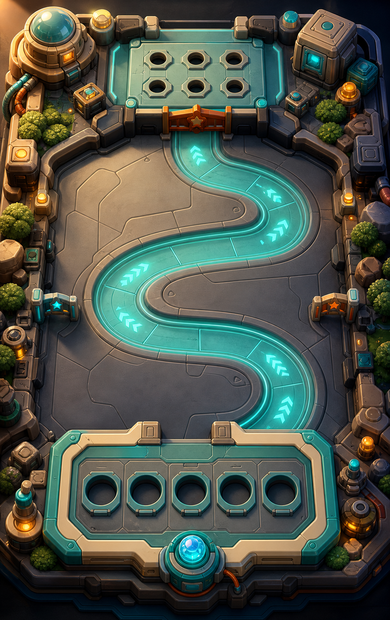
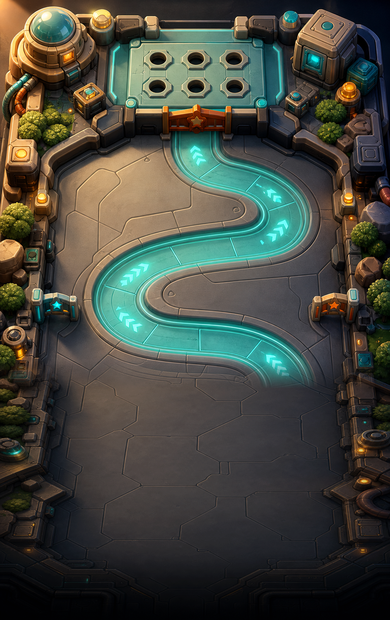
polish reboot battle footer visuals

Changed region(s): [[0.0, 0.5823, 1.0, 1.0], [0.4923, 0.6435, 0.5231, 0.6742], [0.1846, 0.95, 0.2154, 0.9806]]

diff --git a/test/presentation.test.js b/test/presentation.test.js
@@ -23,7 +23,7 @@ test('client app is split into reboot modules and keeps app.js as bootstrap', as
   assert.equal(lines <= 900, true, `app.js line budget exceeded: ${lines}`);
   for (const marker of [
     "from './reboot_actions.js'",
-    "from './reboot_render.js'",
+    "from './reboot_render.js?v=reboot-battle-footer-polish6'",
     "from './reboot_screens.js'",
     "from './reboot_online.js'"
   ]) {
@@ -149,10 +149,32 @@ test('portrait CSS keeps the app shell fixed and thumb-first', async () => {
   }
 });
 
+test('combat canvas preserves the full imagegen map instead of cropping short phones', async () => {
+  const css = await readFile('src/client/styles.css', 'utf8');
+  const canvasBlock = css.slice(css.indexOf('#gameCanvas {'), css.indexOf('.toast {'));
+
+  for (const marker of [
+    'aspect-ratio: 390 / 620;',
+    'object-fit: contain;',
+    'object-position: center center;'
+  ]) {
+    assert.equal(canvasBlock.includes(marker), true, marker);
+  }
+
+  assert.equal(canvasBlock.includes('object-fit: cover;'), false, 'cover can crop the lower player board on short screens');
+});
+
 test('app shell cache-busts the game stylesheet for visual asset updates', async () => {
   const html = await readFile('index.html', 'utf8');
+  const app = await readFile('src/client/app.js', 'utf8');
+  const render = await readFile('src/client/reboot_render.js', 'utf8');
+  const css = await readFile('src/client/styles.css', 'utf8');
 
-  assert.equal(html.includes('<link rel="stylesheet" href="/src/client/styles.css?v=reboot-meta-footer-shroud1">'), true);
+  assert.equal(html.includes('<link rel="stylesheet" href="/src/client/styles.css?v=reboot-battle-footer-polish6">'), true);
+  assert.equal(html.includes('<script type="module" src="/src/client/app.js?v=reboot-battle-footer-polish6"></script>'), true);
+  assert.equal(app.includes("from './reboot_render.js?v=reboot-battle-footer-polish6'"), true);
+  assert.equal(render.includes("src: '/src/client/assets/generated/reboot-battle-backdrop.png?v=reboot-battle-footer-polish6'"), true);
+  assert.equal(css.includes('--combat-action-dock: url("/src/client/assets/generated/reboot-combat-action-dock.png?v=reboot-battle-footer-polish6")'), true);
 });
 
 test('meta screens use reboot sprite tokens instead of placeholder swatches', async () => {
@@ -272,6 +294,20 @@ test('canvas renderer does not duplicate shell resource HUD text', async () => {
   }
 });
 
+test('combat board renderer suppresses player-board labels on imagegen map floors', async () => {
+  const render = await readFile('src/client/reboot_render.js', 'utf8');
+
+  for (const marker of [
+    'const showBoardText = !imageBackdrop || compact;',
+    'const showDangerText = showBoardText || board.danger >= 50;',
+    'if (showBoardText) {',
+    'ctx.fillText(title, x + 12, y + 18);',
+    'if (showDangerText) {'
+  ]) {
+    assert.equal(render.includes(marker), true, marker);
+  }
+});
+
 test('combat renderer keeps imagegen enemy sprites readable on phone canvas', async () => {
   const render = await readFile('src/client/reboot_render.js', 'utf8');
 
@@ -331,6 +367,21 @@ test('combat board renderer uses generated merge and danger accent frames', asyn
     "'merge_ready_frame'",
     "'danger_pulse_frame'",
     "'rescue_beam_segment'"
+  ]) {
+    assert.equal(render.includes(marker), true, marker);
+  }
+});
+
+test('combat board renderer uses compact landing markers over imagegen map floors', async () => {
+  const render = await readFile('src/client/reboot_render.js', 'utf8');
+
+  for (const marker of [
+    "const socketKey = imageBackdrop && !compact ? 'merge_ready_frame' : compact ? 'partner_socket' : 'player_socket';",
+    'const shouldDrawSocket = !imageBackdrop || !compact;',
+    'const socketScale = imageBackdrop ? 0.44 : 1.08;',
+    'const socketAlpha = imageBackdrop ? 0.18 : 0.7;',
+    "const drewSocket = shouldDrawSocket && drawAtlasSprite(ctx, assets, 'board', socketKey, sx + size / 2, sy + size / 2, size * socketScale, socketAlpha);",
+    'if (!drewSocket && !imageBackdrop) {'
   ]) {
     assert.equal(render.includes(marker), true, marker);
   }
@@ -1125,6 +1176,16 @@ test('reward toast sits above app overlays instead of inside the blurred battle 
   }
 });
 
+test('hidden toast does not leave an empty game panel on the battle screen', async () => {
+  const css = await readFile('src/client/styles.css', 'utf8');
+
+  assert.equal(
+    css.includes('.toast[hidden] {\n  display: none;\n}'),
+    true,
+    'hidden toasts must not render their imagegen frame as an empty floating panel'
+  );
+});
+
 test('client wires unit training to profile XP and collection rerender', async () => {
   const app = await readFile('src/client/app.js', 'utf8');
   const screens = await readFile('src/client/reboot_screens.js', 'utf8');
@@ -1328,7 +1389,7 @@ test('combat shell uses generated HUD and action dock chrome', async () => {
 
   for (const marker of [
     '--combat-hud-frame: url("/src/client/assets/generated/reboot-combat-hud-frame.png")',
-    '--combat-action-dock: url("/src/client/assets/generated/reboot-combat-action-dock.png")',
+    '--combat-action-dock: url("/src/client/assets/generated/reboot-combat-action-dock.png?v=reboot-battle-footer-polish6")',
     'body[data-app-screen="battle"] .hud::before',
     'body[data-app-screen="battle"] .action-panel::before',
     'background-image: var(--combat-hud-frame)',
@@ -1341,7 +1402,7 @@ test('combat shell uses generated HUD and action dock chrome', async () => {
   }
 });
 
-test('combat shell chrome preserves generated asset ratios on phone widths', async () => {
+test('combat shell chrome uses generated art as compact button backing on phone widths', async () => {
   const css = await readFile('src/client/styles.css', 'utf8');
 
   for (const marker of [
@@ -1350,7 +1411,8 @@ test('combat shell chrome preserves generated asset ratios on phone widths', asy
     'grid-template-rows: calc(var(--combat-hud-row) + env(safe-area-inset-top)) minmax(0, 1fr) calc(var(--combat-action-row) + env(safe-area-inset-bottom));',
     'background-size: 100% auto;',
     'background-position: center bottom;',
-    'background-position: center top;',
+    'background-size: 100% 86px;',
+    'opacity: 0.2;',
     'min-height: clamp(48px, 13.02vw, 56px);'
   ]) {
     assert.equal(css.includes(marker), true, marker);

diff --git a/test/assets.test.js b/test/assets.test.js
@@ -472,6 +472,32 @@ function alphaAt(image, x, y) {
   return image.pixels[(y * image.width + x) * 4 + 3];
 }
 
+function alphaCoverage(image, rect, threshold = 220) {
+  let covered = 0;
+  let total = 0;
+  for (let y = rect.y; y < rect.y + rect.height; y += 1) {
+    for (let x = rect.x; x < rect.x + rect.width; x += 1) {
+      const offset = (y * image.width + x) * 4;
+      total += 1;
+      if (image.pixels[offset + 3] > threshold) covered += 1;
+    }
+  }
+  return covered / total;
+}
+
+function alphaMean(image, rect) {
+  let total = 0;
+  let sum = 0;
+  for (let y = rect.y; y < rect.y + rect.height; y += 1) {
+    for (let x = rect.x; x < rect.x + rect.width; x += 1) {
+      const offset = (y * image.width + x) * 4;
+      total += 1;
+      sum += image.pixels[offset + 3];
+    }
+  }
+  return sum / total;
+}
+
 function colorRatio(image, rect, predicate) {
   let matched = 0;
   let total = 0;
@@ -535,6 +561,34 @@ test('meta footer shroud uses generated dark floor art for lower meta screens', 
   assert.equal(centerLower.mean < 24, true, `meta footer floor too bright: ${centerLower.mean}`);
   assert.equal(centerSocket.brightRatio < 0.005, true, `meta footer still has luminous slot edges: ${centerSocket.brightRatio}`);
   assert.equal(cyanSlotRatio < 0.00005, true, `meta footer has cyan slot pixels: ${cyanSlotRatio}`);
+});
+
+test('battle backdrop lower board reads as arena floor instead of an empty web socket panel', async () => {
+  const image = parsePng(await readFile('src/client/assets/generated/reboot-battle-backdrop.png'));
+  const lowerBoard = luminanceStats(image, { x: 112, y: 455, width: 166, height: 80 }, 45);
+  const centerSocket = luminanceStats(image, { x: 132, y: 480, width: 126, height: 42 }, 45);
+  const cyanSlotRatio = colorRatio(image, { x: 112, y: 455, width: 166, height: 80 }, (r, g, b) => r < 90 && g > 75 && b > 85);
+  const darkHoleRatio = colorRatio(image, { x: 112, y: 455, width: 166, height: 80 }, (r, g, b) => Math.max(r, g, b) < 35);
+
+  assert.equal(lowerBoard.mean > 34, true, `battle lower board collapsed into a black panel: ${lowerBoard.mean}`);
+  assert.equal(centerSocket.mean > 30, true, `battle center socket area still reads as an empty hole: ${centerSocket.mean}`);
+  assert.equal(darkHoleRatio < 0.12, true, `battle lower board has too much empty black cavity: ${darkHoleRatio}`);
+  assert.equal(cyanSlotRatio < 0.035, true, `battle lower board still has too many cyan lane/socket pixels: ${cyanSlotRatio}`);
+});
+
+test('combat action dock shows status rail chrome instead of an empty socket row', async () => {
+  const image = parsePng(await readFile('src/client/assets/generated/reboot-combat-action-dock.png'));
+  const emptySocketDarkRatio = colorRatio(
+    image,
+    { x: 50, y: 58, width: 330, height: 62 },
+    (r, g, b) => Math.max(r, g, b) < 35
+  );
+  const exposedPanelAlpha = alphaCoverage(image, { x: 60, y: 0, width: 310, height: 112 }, 1);
+  const exposedPanelMean = alphaMean(image, { x: 60, y: 0, width: 310, height: 112 });
+
+  assert.equal(emptySocketDarkRatio < 0.38, true, `action dock still exposes dark empty sockets: ${emptySocketDarkRatio}`);
+  assert.equal(exposedPanelAlpha < 0.08, true, `action dock still exposes empty upper panels: ${exposedPanelAlpha}`);
+  assert.equal(exposedPanelMean < 10, true, `action dock upper panel is still visibly opaque: ${exposedPanelMean}`);
 });
 
 test('splash floor cap is a transparent matte bitmap, not another glowing button', async () => {
@@ -604,6 +658,17 @@ test('world sprite atlases use png alpha instead of opaque card backgrounds', as
         assert.ok(opaqueInterior / interiorTotal > 0.015, `${asset.path} cell ${col},${row} has too little visible sprite`);
         assert.ok(opaqueInterior / interiorTotal < 0.82, `${asset.path} cell ${col},${row} looks like a mostly opaque card tile`);
       }
+    }
+  }
+});
+
+test('reboot board accent atlas cells have transparent outer backgrounds', async () => {
+  const image = parsePng(await readFile('src/client/assets/generated/reboot-board-accents.png'));
+  const cell = 256;
+  for (let col = 0; col < 2; col += 1) {
+    const x0 = col * cell;
+    for (const [dx, dy] of [[0, 0], [255, 0], [0, 255], [255, 255]]) {
+      assert.equal(alphaAt(image, x0 + dx, dy) < 10, true, `board accent cell ${col} corner ${dx},${dy} must be transparent`);
     }
   }
 });

diff --git a/src/client/reboot_render.js b/src/client/reboot_render.js
@@ -45,7 +45,7 @@ export const REBOOT_ATLAS_MANIFEST = {
 
 export const REBOOT_BACKDROP_MANIFEST = {
   battle: {
-    src: '/src/client/assets/generated/reboot-battle-backdrop.png',
+    src: '/src/client/assets/generated/reboot-battle-backdrop.png?v=reboot-battle-footer-polish6',
     width: 390,
     height: 620,
     source: 'imagegen'
@@ -205,11 +205,17 @@ function drawBoard(ctx, board, x, y, w, h, title, compact = false, assets = {}, 
     ctx.lineWidth = 3;
     ctx.stroke();
   }
-  ctx.fillStyle = '#f5f0dc';
-  ctx.font = '700 12px system-ui';
-  ctx.fillText(title, x + 12, y + 18);
-  ctx.fillStyle = board.danger >= 80 ? '#ff6f59' : '#a8b4a7';
-  ctx.fillText(`위험 ${Math.round(board.danger)}`, x + w - 66, y + 18);
+  const showBoardText = !imageBackdrop || compact;
+  const showDangerText = showBoardText || board.danger >= 50;
+  if (showBoardText) {
+    ctx.fillStyle = '#f5f0dc';
+    ctx.font = '700 12px system-ui';
+    ctx.fillText(title, x + 12, y + 18);
+  }
+  if (showDangerText) {
+    ctx.fillStyle = board.danger >= 80 ? '#ff6f59' : '#a8b4a7';
+    ctx.fillText(`위험 ${Math.round(board.danger)}`, x + w - 66, y + 18);
+  }
   if (board.danger >= 80) {
     drawAtlasSprite(ctx, assets, 'board', 'danger_pulse_frame', x + w - 36, y + 42, compact ? 48 : 56, 0.58);
   }
@@ -228,8 +234,12 @@ function drawBoard(ctx, board, x, y, w, h, title, compact = false, assets = {}, 
   for (let i = 0; i < count; i += 1) {
     const sx = x + 12 + i * (size + gap);
     const sy = y + h - size - 12;
-    const socketKey = compact ? 'partner_socket' : 'player_socket';
-    if (!imageBackdrop && !drawAtlasSprite(ctx, assets, 'board', socketKey, sx + size / 2, sy + size / 2, size * 1.08, 0.7)) {
+    const socketKey = imageBackdrop && !compact ? 'merge_ready_frame' : compact ? 'partner_socket' : 'player_socket';
+    const shouldDrawSocket = !imageBackdrop || !compact;
+    const socketScale = imageBackdrop ? 0.44 : 1.08;
+    const socketAlpha = imageBackdrop ? 0.18 : 0.7;
+    const drewSocket = shouldDrawSocket && drawAtlasSprite(ctx, assets, 'board', socketKey, sx + size / 2, sy + size / 2, size * socketScale, socketAlpha);
+    if (!drewSocket && !imageBackdrop) {
       roundedRect(ctx, sx, sy, size, size, 7);
       ctx.fillStyle = 'rgba(245, 240, 220, 0.08)';
       ctx.fill();

diff --git a/src/client/styles.css b/src/client/styles.css
@@ -43,7 +43,7 @@
   --meta-title-plate: url("/src/client/assets/generated/reboot-meta-title-plate.png?v=meta-title");
   --meta-action-buttons: url("/src/client/assets/generated/reboot-meta-action-buttons.png?v=meta-actions");
   --combat-hud-frame: url("/src/client/assets/generated/reboot-combat-hud-frame.png");
-  --combat-action-dock: url("/src/client/assets/generated/reboot-combat-action-dock.png");
+  --combat-action-dock: url("/src/client/assets/generated/reboot-combat-action-dock.png?v=reboot-battle-footer-polish6");
   --combat-action-buttons: url("/src/client/assets/generated/reboot-combat-action-buttons.png?v=action-buttons");
   --combat-meter-sockets: url("/src/client/assets/generated/reboot-combat-meter-sockets.png?v=meter-sockets");
   --combat-status-plates: url("/src/client/assets/generated/reboot-combat-status-plates.png?v=status-plates");
@@ -179,7 +179,9 @@ body[data-app-screen="battle"] .hud::before {
 
 body[data-app-screen="battle"] .action-panel::before {
   background-image: var(--combat-action-dock);
-  background-position: center top;
+  background-position: center bottom;
+  background-size: 100% 86px;
+  opacity: 0.2;
 }
 
 .hud > *,
@@ -329,6 +331,9 @@ body:not([data-app-screen="battle"]) .stage-wrap {
   width: 100%;
   height: 100%;
   max-width: 390px;
+  aspect-ratio: 390 / 620;
+  object-fit: contain;
+  object-position: center center;
   image-rendering: auto;
 }
 
@@ -357,6 +362,10 @@ body:not([data-app-screen="battle"]) .stage-wrap {
   text-align: center;
   text-shadow: 0 2px 8px rgba(0, 0, 0, 0.7);
   overflow: visible;
+}
+
+.toast[hidden] {
+  display: none;
 }
 
 .toast[data-toast-kind="combat"] {

diff --git a/index.html b/index.html
@@ -7,7 +7,7 @@
     <title>ProjectAuto</title>
     <link rel="icon" href="/src/client/assets/generated/reboot-app-icon-192.png">
     <link rel="manifest" href="/manifest.webmanifest">
-    <link rel="stylesheet" href="/src/client/styles.css?v=reboot-meta-footer-shroud1">
+    <link rel="stylesheet" href="/src/client/styles.css?v=reboot-battle-footer-polish6">
   </head>
   <body data-app-screen="splash">
     <main class="shell">
@@ -111,6 +111,6 @@
         </div>
       </section>
     </main>
-    <script type="module" src="/src/client/app.js"></script>
+    <script type="module" src="/src/client/app.js?v=reboot-battle-footer-polish6"></script>
   </body>
 </html>

diff --git a/src/client/app.js b/src/client/app.js
@@ -3,7 +3,7 @@ import { SHOP } from '../shared/content.js';
 import { createMetaProfile, normalizeMetaProfile } from '../shared/meta.js';
 import { REBOOT_UNITS } from '../shared/reboot_content.js';
 import { buildRebootActionState, commandForRebootAction } from './reboot_actions.js';
-import { createRebootAssetImages, drawRebootBattle } from './reboot_render.js';
+import { createRebootAssetImages, drawRebootBattle } from './reboot_render.js?v=reboot-battle-footer-polish6';
 import {
   buildMissionScreen,
   buildRebootCollection,